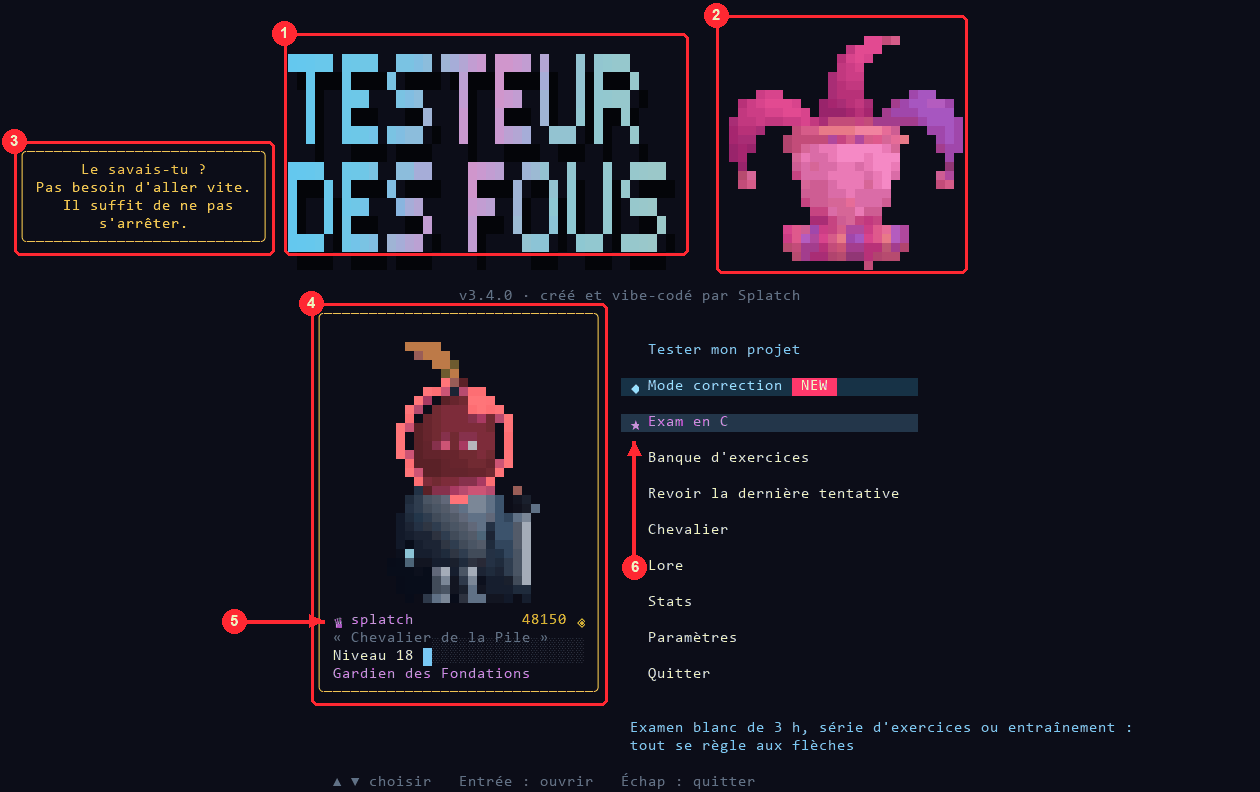
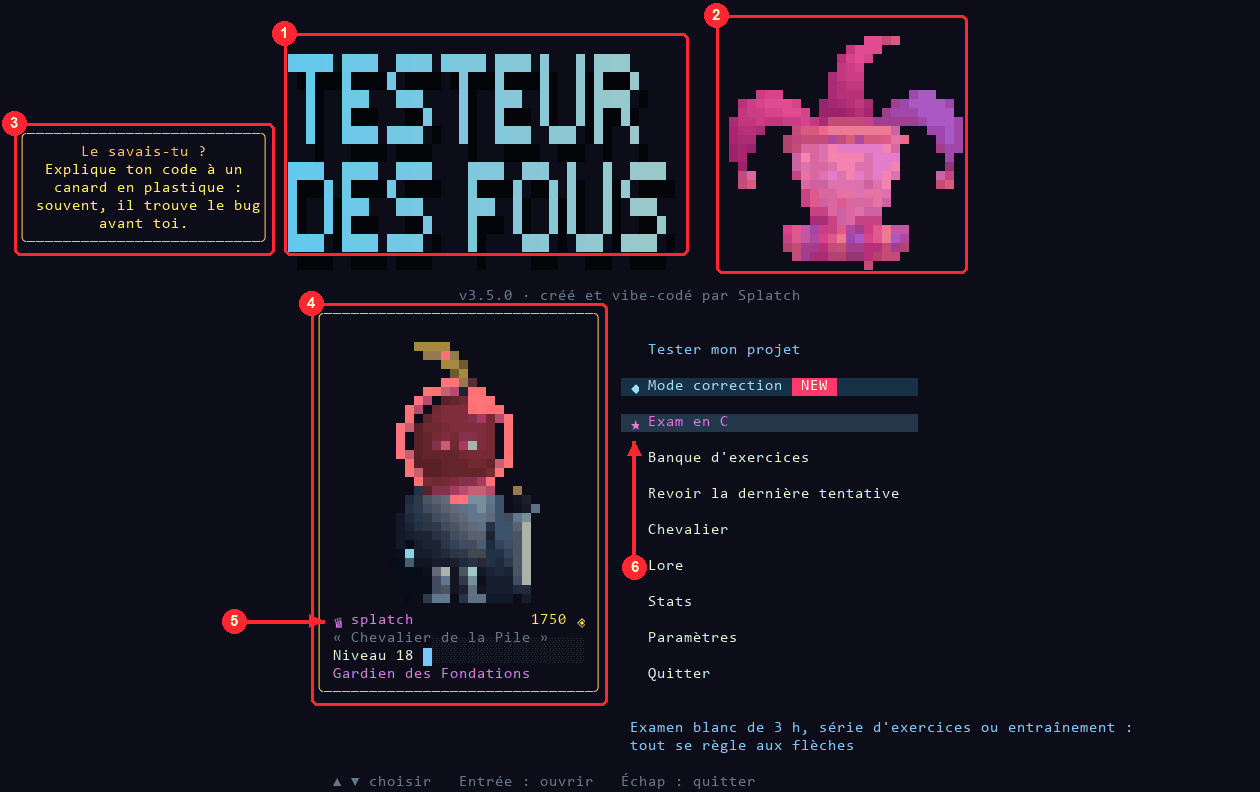
3.5.0 : version, README, captures des nouveautés, badges NEW

diff --git a/moteur/version.h b/moteur/version.h
@@ -1,9 +1,9 @@
 #ifndef TDF_VERSION_H
 # define TDF_VERSION_H
 
-# define TDF_VERSION "3.4.0"
-# define TDF_DATE "2026-11-20"
-# define TDF_NEW_ACTIFS " 3.3 3.4 3.5 "
+# define TDF_VERSION "3.5.0"
+# define TDF_DATE "2026-11-26"
+# define TDF_NEW_ACTIFS " 3.4 3.5 "
 
 # if defined(TDF_PRINTF)
 #  define TDF_GAME "printf"

diff --git a/README.md b/README.md
@@ -1,6 +1,6 @@
 # Le testeur des fous
 
-> **Version 3.4.0** · [historique](CHANGELOG.md) · créé et vibe-codé par **Splatch** (`romasant`) pour les étudiants de 42 Next · projet étudiant non officiel.
+> **Version 3.5.0** · [nouveautés](docs/nouveautes/3.5.md) · [historique](CHANGELOG.md) · créé et vibe-codé par **Splatch** (`romasant`) pour les étudiants de 42 Next · projet étudiant non officiel.
 
 **Un seul testeur pour Libft, ft_printf et get_next_line, un examshell en C, une banque d'exercices et un mode correction.** Il teste comme la moulinette, ne contient aucune solution et n'écrit rien à ta place : il casse ton code et te montre où regarder. Tout se fait aux flèches, dans un seul menu.
 
@@ -74,7 +74,7 @@ La correction compile avec `cc -Wall -Wextra -Werror`, refuse les fonctions non 
 94 exercices au choix, en 8 langues : 57 pour l'exam, 21 d'entraînement Libft, 16 d'entraînement printf. ◀ ▶ change d'onglet, Entrée ouvre le sujet, puis « Corriger mon code ».
 ## Ta progression
 
-Chaque test réussi rapporte de l'expérience et des Octets. Habille ton chevalier dans la garde-robe, suis tes courbes dans Stats, et découvre l'histoire de « la Cité qui compile » en pixel art (c'est un testeur, pas un jeu vidéo : tout se coupe dans les options).
+Chaque test réussi rapporte de l'expérience et des Octets. Dépense-les dans la boutique : 17 collections de tenues (dont le voyageur galactique) à essayer en entier, une recherche par nom (touche /), et un rayon Personnalisation qui change le testeur lui-même (couleurs du menu, curseur, emblème, teintures). Habille ton chevalier dans la garde-robe, suis tes courbes dans Stats, et découvre l'histoire de « la Cité qui compile » en pixel art (c'est un testeur, pas un jeu vidéo : tout se coupe dans les options).
 Ta sauvegarde est dans `~/.testeur_des_fous/`, hors du dossier du testeur : tu peux le supprimer ou le recloner sans rien perdre.
 
 ## Le menu en bref

diff --git a/CHANGELOG.md b/CHANGELOG.md
@@ -2,7 +2,7 @@
 
 Le numéro de version est dans `moteur/version.h`.
 
-## 3.5.0 · en préparation
+## 3.5.0 · 2026-11-26
 
 ### Pages de nouveautés
 
